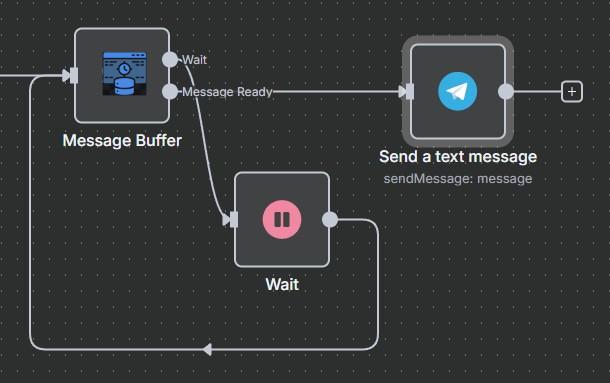
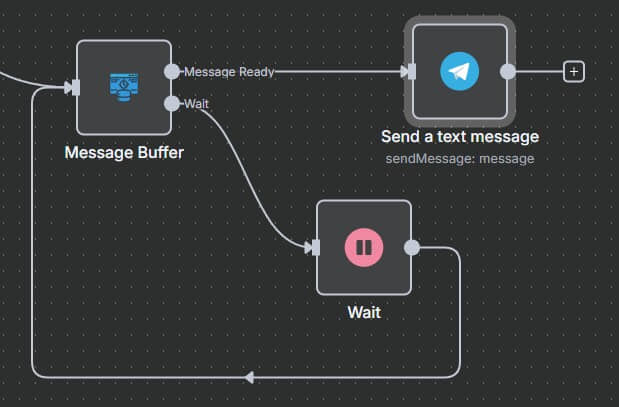
fix: Wait output fixed

Changed region(s): [[0.0, 0.0287, 0.9656, 0.9478]]

diff --git a/nodes/MessageBuffer/MessageBuffer.node.ts b/nodes/MessageBuffer/MessageBuffer.node.ts
@@ -145,24 +145,31 @@ export class MessageBuffer implements INodeType {
             returnDataMessageReady.push(newItem);
 
             await redis.del(dataKey);
+          } else {
+            const newItem: INodeExecutionData = {
+              json: {
+                ...item.json,
+                [outputFieldName]: '',
+              },
+              binary: item.binary,
+            };
+            returnDataMessageReady.push(newItem);
           }
         }
       } else {
-        const messageText = item.json[messageField];
-
-        if (typeof messageText === 'string' && messageText.trim() !== '') {
-          await redis.rpush(dataKey, messageText);
+        if (messageField.trim() !== '') {
+          await redis.rpush(dataKey, messageField);
 
           await redis.set(timerKey, '1', 'EX', waitTime);
-          const pollingItem: INodeExecutionData = {
-            json: {
-              ...item.json,
-              [POLLING_SIGNAL_KEY]: true,
-            },
-            binary: item.binary,
-          };
-          returnDataWait.push(pollingItem);
         }
+        const pollingItem: INodeExecutionData = {
+          json: {
+            ...item.json,
+            [POLLING_SIGNAL_KEY]: true,
+          },
+          binary: item.binary,
+        };
+        returnDataWait.push(pollingItem);
       }
     } catch (error) {
       if (this.continueOnFail()) {
